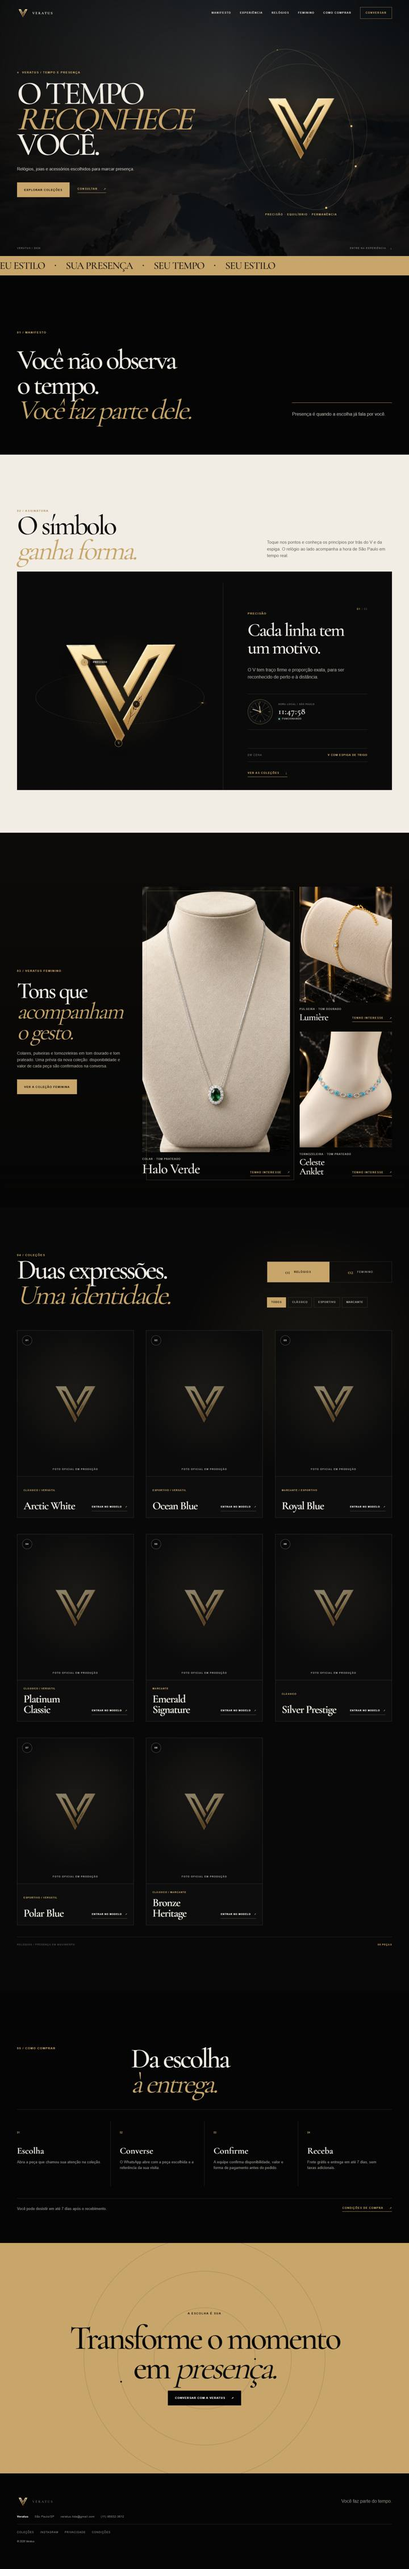
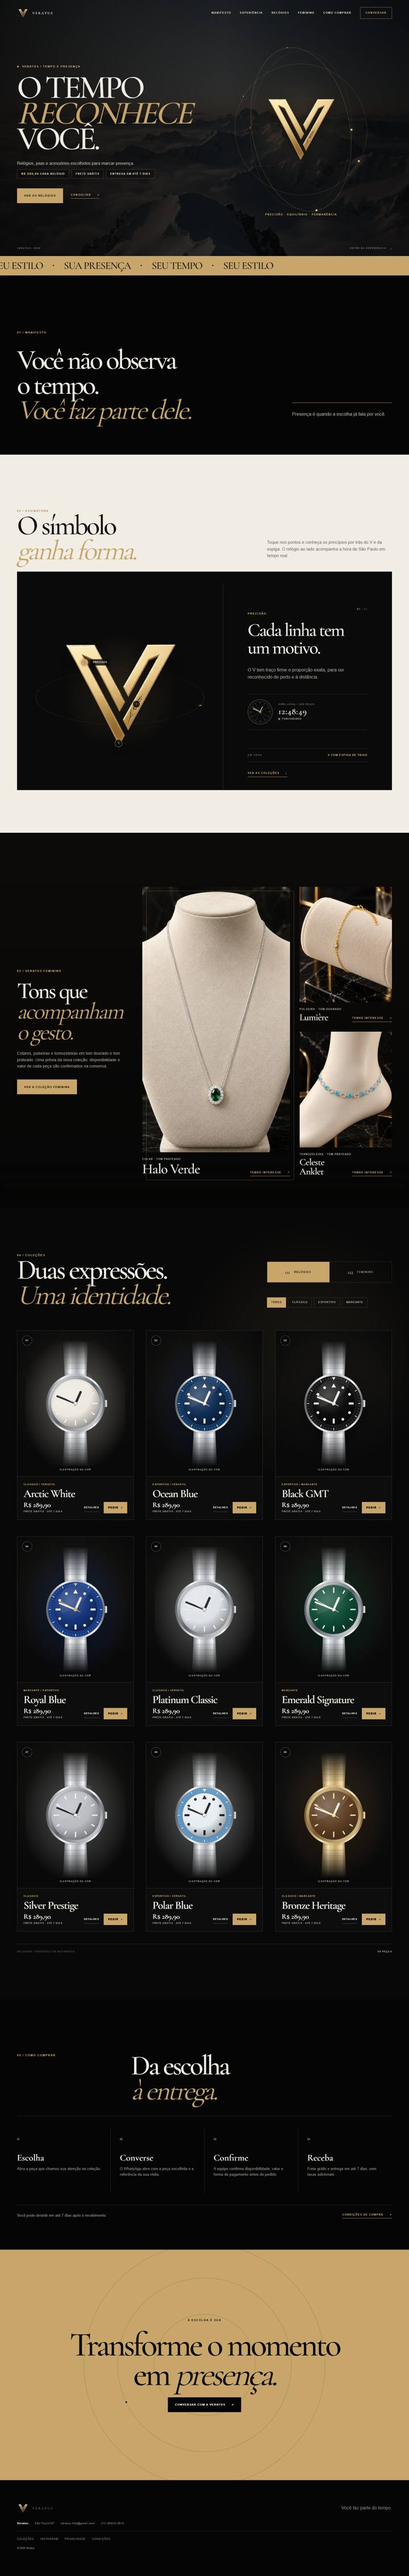
docs: handoff, relatório e capturas da vitrine com relógios à venda

diff --git a/docs/HANDOFF.md b/docs/HANDOFF.md
@@ -1,84 +1,90 @@
 # HANDOFF — leia antes de editar, atualize antes de sair
 
-**Última atualização:** 27/09/2026, Claude Code.
+**Última atualização:** 27/09/2026 (tarde), Claude Code.
 **Trava:** `python scripts/agent_lock.py status`. Só edite com a trava em seu nome (regra no `AGENTS.md`).
 
-## Atenção: outro processo escreveu na pasta principal
+## Estado do repositório
 
-Em 26/09, com a trava em nome de `claude-code`, outro processo reescreveu `veratus_agents/data_discovery.py` (20:39) e `veratus_agents/catalog.py` (20:55). As duas versões são **antigas** e não correspondem a nenhum commit: removem o suporte à coleção feminina e a projeção pública. Com elas, `pytest` falha e `/os/readiness` dá 500.
+- `origin/main` = `38f50be`. **Nada foi enviado nem publicado.**
+- `claude/site-referencias` contém tudo: rodadas de 25, 26 e 27/09, **27 commits** sobre `origin/main`. Os commits do `main` local (+6) e de `claude/rodada-2609` (+12) já estão nela.
+- Para publicar tudo de uma vez: `git push origin claude/site-referencias:main`. O Render publica o `main` (deploy automático do serviço `veratus-leads`, a conferir no painel). Só com confirmação do fundador no momento da ação.
+- Flags: `PUBLISH_ENABLED=false`, `PAID_MEDIA_LIVE_WRITES=false`, `PAID_MEDIA_AUTONOMY_MODE=SHADOW`, `WHATSAPP_SEND_ENABLED=false`, `INSTAGRAM_DM_ENABLED=false`, e as 8 flags de canal `false`.
+- Produção (`https://veratus.onrender.com`) ainda roda `38f50be`, **com as fotos e o vídeo com marca de terceiros no ar** até o push.
 
-- Esses arquivos **não foram revertidos** (regra do `AGENTS.md`).
-- As rodadas de 26 e 27/09 foram feitas em worktrees isoladas.
-- Em 27/09, o Codex estava de novo em execução (desde 10:34), mas não escreveu nada na pasta principal durante a rodada.
-- Antes de qualquer commit na pasta principal, descubra quem escreveu e decida o que fazer.
+## Pasta principal (`C:\Users\PC GAMER\Teste`): ainda no `main` antigo
 
-Outras alterações não versionadas na pasta principal que **não** entraram em commit:
+O fast-forward da `main` local para `claude/site-referencias` **não foi feito**. Ele esbarra em arquivos que outro processo escreveu e que não são desta sessão:
 
 | Arquivo | Situação |
 | --- | --- |
-| `veratus_agents/data_discovery.py`, `veratus_agents/catalog.py` | versões antigas escritas por outro processo (acima) |
+| `veratus_agents/catalog.py`, `veratus_agents/data_discovery.py` | versões antigas escritas por outro processo em 26/09 (20:39 e 20:55); removem a coleção feminina e a projeção pública; com elas, `pytest` falha e `/os/readiness` dá 500. `catalog.py` impede o fast-forward. |
+| `docs/evidence/economics-2026-09-25.md`, `docs/evidence/mercado-livre-readiness-2026-09-25.md`, `docs/insights/posts-2026-09-26.md` | cópias não versionadas que diferem das versões da branch; impedem o fast-forward |
 | `veratus_agents/product_master.py` | agente externo em 25/09: exige material também para joias (decisão abaixo) |
 | `integrations/zapier_to_sheets.md` | versão antiga que manda colocar a URL do Zapier no HTML público. Não usar |
 | `social/fila-publicacao.csv` | formato alterado, origem desconhecida |
 | `docs/data-discovery-2026-09-19.json` | contém nome e endereço do fornecedor. **Não versionar;** apagar ou guardar fora do repositório |
 
-## Estado do repositório
+Guardar esses arquivos num stash e fazer o fast-forward foi bloqueado pela permissão do Claude Code (risco de perda local). **O fundador decide.** Se aprovar:
 
-- `origin/main` = `38f50be`. Nada foi enviado nem publicado.
-- `main` local: +6 commits (rodadas de 25 e 26/09 organizadas por tema).
-- `claude/rodada-2609` (a partir do `main`): +12 commits, decisões do fundador de 26/09. Relatório em `docs/evidence/founder-round-2026-09-26.md`.
-- `claude/site-referencias` (a partir de `claude/rodada-2609`): +5 commits de 27/09. Relatório em `docs/evidence/site-round-2026-09-27.md`.
-- Flags: `PUBLISH_ENABLED=false`, `PAID_MEDIA_LIVE_WRITES=false`, `PAID_MEDIA_AUTONOMY_MODE=SHADOW`, `WHATSAPP_SEND_ENABLED=false`, `INSTAGRAM_DM_ENABLED=false`, e as 8 flags de canal `false`.
-- Produção (`https://veratus.onrender.com`) ainda roda `38f50be`. **O site público ainda mostra as fotos e o vídeo com marca de terceiros** até o deploy.
+```powershell
+git stash push -u -m "externo 25-26/09" -- veratus_agents/catalog.py veratus_agents/data_discovery.py docs/HANDOFF.md docs/automation docs/decisions docs/evidence/economics-2026-09-25.md docs/evidence/mercado-livre-readiness-2026-09-25.md docs/evidence/task-contracts-2026-09-25.md docs/evidence/truth-table-2026-09-25.md docs/insights/posts-2026-09-26.md
+git merge --ff-only claude/site-referencias
+```
 
-## Bloqueio principal (atualizado em 27/09)
+O Codex (PID 5968) estava em execução desde 10:34 de 27/09, sem escrever na pasta principal durante a rodada.
 
-As fotos e o vídeo dos relógios mostravam ROLEX, a coroa e o selo "ROLEX S.A. GENEVE". Isso incluía o catálogo, o hero, a campanha e os posts sociais.
+## O que mudou em 27/09 (tarde)
 
-- O fundador confirmou em 27/09 que as **peças físicas não levam marca de terceiros**.
-- Os 47 arquivos estão em `quarantine/third-party-marks/`, fora do site e da imagem Docker. O publicador social recusa essa mídia.
-- Relógios aparecem sem foto ("Foto oficial em produção"), **sem preço, sem botão de pedido**, e o Black GMT segue fora da vitrine.
-- **Desbloqueio:** fotos reais do item exato, sem marca de terceiros, com fonte no Product Master (`image`, `image_status`).
-- Não edite as fotos antigas para apagar a marca.
+| Commit | O que muda |
+| --- | --- |
+| `3e92e54` | **Relógios à venda.** 9 relógios, Black GMT incluído, com R$ 289,90, "Frete grátis · até 7 dias" e o botão "Pedir" (WhatsApp com produto, referência e intenção de pedido). Sem foto real, cada relógio aparece como **ilustração da própria paleta** (`palette` no Product Master), identificada como "Ilustração da cor". O ponteiro de segundos segue a hora de São Paulo. Hero com R$ 289,90, frete grátis e até 7 dias. |
+| `f7855d5` | **Agente de vendas.** Antes, o gate bloqueava qualquer R$, frete grátis e prazo, então o agente não respondia "quanto custa?". Agora `CONFIRMED_SALES_FACTS` libera exatamente preço dos relógios, sem taxas, frete grátis, entrega em até 7 dias e desistência em 7 dias, cada um com `evidence_ref`. Continuam bloqueados: outro valor ou prazo, preço de relógio para joia, marca de terceiros, "réplica", estoque, parcelamento e garantia. As ferramentas não entregam mais custo, fornecedor nem material ao agente. |
+| `31cd3c9` | **Fotos reais em um comando**, descrito abaixo. |
+
+## Fotos reais dos relógios
+
+1. Salve uma foto por modelo em `incoming/relogios/<id>.jpg`, por exemplo `ocean-blue.jpg` ou `black-gmt.jpg`. A pasta fica fora do Git.
+2. Rode `python scripts/import_watch_photos.py --sem-marca-de-terceiros`.
+3. O script recorta em 4:5, salva WebP sem EXIF e marca `REAL_PHOTO` no Product Master. O cartão troca a ilustração pela foto.
+
+Anúncio pago e post de relógio continuam bloqueados até a foto real do item exato (`STOREFRONT_BLOCKERS`). A mídia antiga com marca segue em `quarantine/third-party-marks/`: não restaurar, não editar para apagar a marca.
 
 ## Verificar
 
 ```powershell
-.\.venv\Scripts\python.exe -m pytest -q
+.\.venv\Scripts\python.exe -m pytest -q          # 221 passed em 27/09 (worktree claude/site-referencias)
 .\.venv\Scripts\python.exe -m ruff check .
 .\.venv\Scripts\python.exe -m ruff format --check .
 ```
 
-- Testes de navegador (`tests/test_landing_browser.py`) usam o Chrome local e são pulados no CI.
-- `tests/test_multiworker_state.py` sobe 2 processos reais. Com `VERATUS_TEST_DATABASE_URL` (PostgreSQL descartável), roda também no PostgreSQL e apaga as tabelas de snapshot desse banco.
+- Os testes de navegador (`tests/test_landing_browser.py`) usam o Chrome local e são pulados no CI.
+- `tests/test_multiworker_state.py` sobe 2 processos reais.
 
 ## Decisões abertas do fundador
 
-1. Push e deploy: `main` (+6), `claude/rodada-2609` (+12), `claude/site-referencias` (+5). Enquanto não houver deploy, a mídia com marca continua no ar.
-2. Fotos reais dos 9 relógios (Black GMT incluído). Com elas: preço R$ 289,90, botão de pedido e Black GMT na vitrine. Os modelos seguem o desenho de modelos conhecidos (Submariner, GMT-Master, Datejust), mesmo sem a marca. Vale uma avaliação jurídica sobre conjunto-imagem antes de anunciar.
-3. Posts da fila social usavam a mídia com marca e estão bloqueados. Novos posts precisam de fotos reais ou das joias.
+1. **Push para o GitHub, que o Render publica.** Isso tira do ar a mídia com marca e coloca os relógios à venda.
+2. Fast-forward da pasta principal (stash acima).
+3. Fotos reais dos 9 relógios, para anúncio, post e troca da ilustração. Os modelos seguem o desenho de modelos conhecidos. Vale uma avaliação jurídica de conjunto-imagem antes de anunciar.
 4. Origem registrada com manuseio de 2 dias úteis vs entrega em até 7 dias. Quando o prazo começa a contar?
 5. `product_master.py` (material obrigatório para joias no QA): manter ou reverter.
-6. Economics: frete pago pela Veratus, taxa de pagamento e tributo (UNVERIFIED). Custo de devolução não modelado.
-7. Preços das joias: nenhuma fonte real (9 × NEEDS_PRICING). Para publicar, preencher `sale_price` e `price_source`.
-8. Fornecedor no histórico do Git (`commercial_config.py` até `38f50be`) e mídia com marca no histórico: reescrever ou não.
-9. `VERATUS_SELLER_DOCUMENT` e `INSTAGRAM_ACCESS_TOKEN` no Render; número do WhatsApp, ADR de tracking, app do Mercado Livre e 14º papel (`paid-acquisition-worker`).
+6. Economics: frete pago pela Veratus, taxa de pagamento e tributo (UNVERIFIED).
+7. Preços das joias: nenhuma fonte real (9 × NEEDS_PRICING).
+8. Fornecedor e mídia com marca no histórico do Git: reescrever ou não.
+9. `VERATUS_SELLER_DOCUMENT`, `INSTAGRAM_ACCESS_TOKEN` e `OPENAI_API_KEY` no Render; número do WhatsApp Cloud API; formas de pagamento, que o agente ainda manda confirmar com a equipe.
 
 ## Não faça
 
-- Não ligue nenhuma flag de envio ou publicação nem faça deploy sem confirmação explícita no momento da ação.
-- Não publique preço, anúncio ou post de relógio sem foto real do item exato.
-- Não restaure nada de `quarantine/third-party-marks/` para `landing/` nem use essa mídia em post ou anúncio.
+- Não ligue nenhuma flag de envio ou publicação nem faça push ou deploy sem confirmação explícita no momento da ação.
+- Não use a mídia de `quarantine/third-party-marks/` nem edite fotos para apagar marcas.
 - Não "restaure" arquivos que você não alterou; registre aqui.
 - Não versione `docs/data-discovery-2026-09-19.json` nem nada com nome, endereço ou cidade do fornecedor.
 
 ## Próximo passo sugerido
 
-1. Com o push e o deploy aprovados, publicar as três branches na ordem (`main`, `claude/rodada-2609`, `claude/site-referencias`). Isso tira do ar a mídia com marca.
+1. Com o push aprovado: `git push origin claude/site-referencias:main`.
 2. Conferir em produção:
-   - `/health`, `/robots.txt` e `/sitemap.xml`;
-   - `/os/paid-media/status` (401 sem token);
-   - `/integrations/whatsapp/webhook` (403 sem verify token);
-   - `/assets/catalog/black-gmt.webp` e `/social/posts/navy-gold.jpg` (404).
-3. Rodar `VERATUS_LANDING_URL=https://veratus.onrender.com pytest tests/test_landing_browser.py`.
-4. Receber as fotos reais dos relógios e aplicar preço e botão de pedido.
+   - `/health`;
+   - a vitrine com 9 relógios e o preço;
+   - `/assets/catalog/black-gmt.webp` e `/social/posts/navy-gold.jpg` devem dar 404;
+   - `VERATUS_LANDING_URL=https://veratus.onrender.com pytest tests/test_landing_browser.py`.
+3. Receber as fotos reais e rodar o importador.

diff --git a/docs/evidence/site-round-2026-09-27.md b/docs/evidence/site-round-2026-09-27.md
@@ -44,3 +44,17 @@ Todas as animações novas mexem só em `transform`. Sem JS, sem suporte a anima
 ## Não verificado ao vivo
 
 Deploy, Render e o comportamento em produção. O site público ainda roda `38f50be`, com a mídia de marca no ar, até o deploy aprovado.
+
+## Segunda parte (27/09, tarde): relógios à venda e agente que responde
+
+Pedido do fundador: colocar os produtos no ar, parar de travar a vitrine e melhorar os agentes. As fotos com o nome e a coroa de outra marca continuam fora do site; todo o resto foi aplicado.
+
+| Commit | Tema |
+| --- | --- |
+| `3e92e54` | **Loja.** 9 relógios (Black GMT de volta) com R$ 289,90, "Frete grátis · até 7 dias" e botão "Pedir" no cartão e no diálogo. Sem foto real, cada relógio é desenhado na própria paleta (`palette` no Product Master) e identificado como "Ilustração da cor"; o ponteiro de segundos segue a hora de São Paulo e para com movimento reduzido. Hero com as condições confirmadas. |
+| `f7855d5` | **Agente de vendas.** O gate bloqueava qualquer R$, frete e prazo, e o agente não conseguia responder preço. Agora os fatos confirmados passam com `evidence_ref`; variações, preço de relógio para joia, marcas de terceiros e "réplica" são bloqueados. Ferramentas sem custo, fornecedor e material. Instruções com passo a passo de venda e dois exemplos aprovados pelo próprio gate. |
+| `31cd3c9` | **Fotos reais.** `incoming/relogios/<id>.jpg` → `python scripts/import_watch_photos.py --sem-marca-de-terceiros` → WebP 4:5 sem EXIF, `REAL_PHOTO` no Product Master, catálogo exportado. |
+
+Verificação: `pytest -q` 221 passed (inclui os testes de navegador com Chrome: 9 cartões com preço, link "Pedir" com `produto=black-gmt` e intenção de pedido, diálogo com preço e ilustração), `ruff check` e `ruff format --check` sem apontamentos. Capturas atualizadas em `screens-2026-09-27/`.
+
+Anúncio pago e post de relógio seguem bloqueados até a foto real do item exato.
